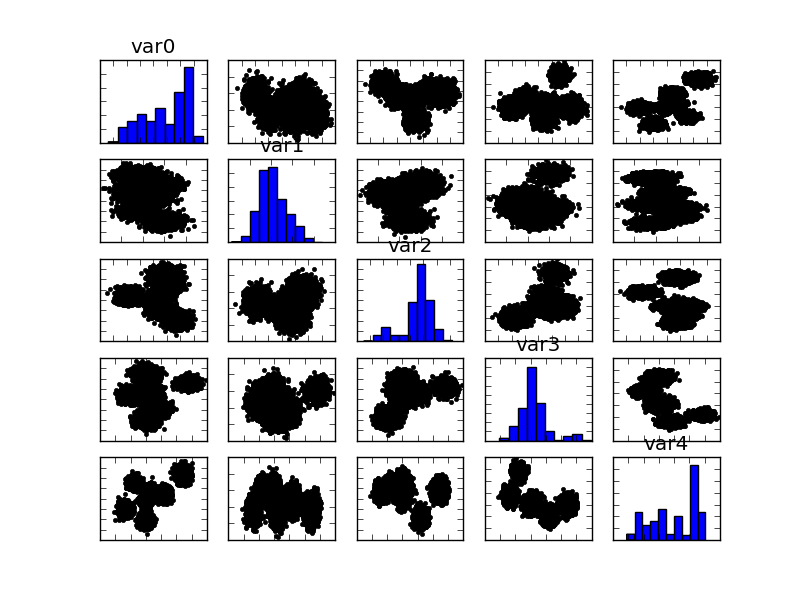
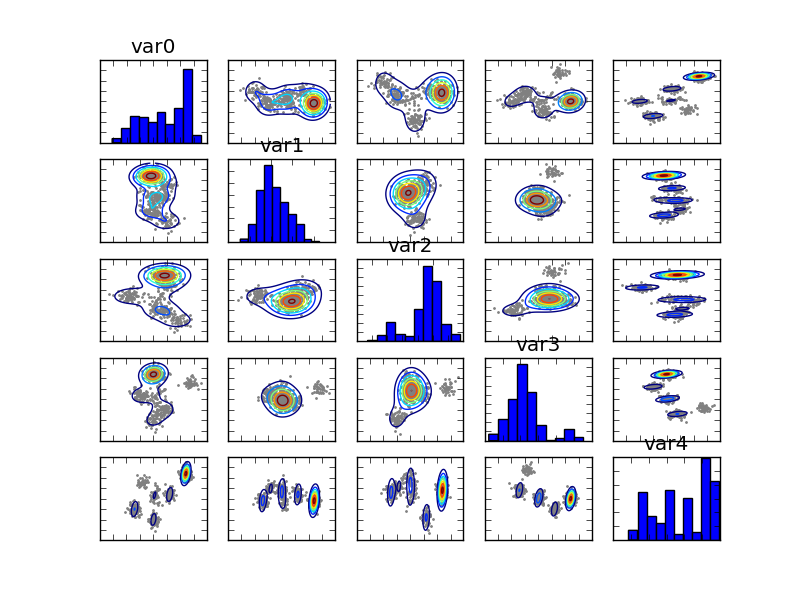
upload plots

diff --git a/RunSimulation.py b/RunSimulation.py
@@ -2,6 +2,7 @@ import numpy as np
 import matplotlib.pyplot as plt
 import matplotlib.mlab as mlab
 import csv
+from sklearn.decomposition import PCA
 
 
 
@@ -21,27 +22,14 @@ def pair(data, labels=None):
 				ax.hist(data[:, i])
 				ax.set_title(labels[i])
 			else:
-				X = np.arange(-25, 25, 0.01)
-				Y = np.arange(-25, 25, 0.01)
+				X = np.arange(-18, 18, 0.01)
+				Y = np.arange(-18, 18, 0.01)
 				X, Y = np.meshgrid(X, Y)
-				Z = gaussianMixture(X, Y, pi, centroids, covmat)
+				Z = gaussianMixture(X, Y, pi, centroids[:,(i,j)], covmat[:,(i,j)])
 				ax.contour(X, Y, Z)
-				ax.scatter(data[:, 0], data[:, 1], s=1, color='0.5')
+				ax.scatter(data[:, i], data[:, j], s=1, color='0.5')
 	return fig
 
-def pairs(data):
-#"Quick&dirty scatterplot matrix"
-    d = len(data)
-    fig, axes = plt.subplots(nrows=d, ncols=d, sharex='col', sharey='row')
-    for i in range(d):
-        for j in range(d):
-            ax = axes[i,j]
-            if i == j:
-                ax.text(0.5, 0.5, transform=ax.transAxes,
-                        horizontalalignment='center', verticalalignment='center',
-                        fontsize=16)
-            else:
-                ax.scatter(data[j], data[i], s=10)
 
 
 def multivariateGaussianMixture(pi, centroids, covmat, n_samples):
@@ -99,9 +87,9 @@ centroids = np.array([[0, 0, 0, 0, 0],
 
 covmat = np.tile([3, 4, 5, 3, 1], (7,1))
 
-sim_out = multivariateGaussianMixture(pi, centroids, covmat, n_samples = 50)
+sim_out = multivariateGaussianMixture(pi, centroids, covmat, n_samples = 100)
 
-pairs(sim_out)
+pair(sim_out)
 
 
 """
